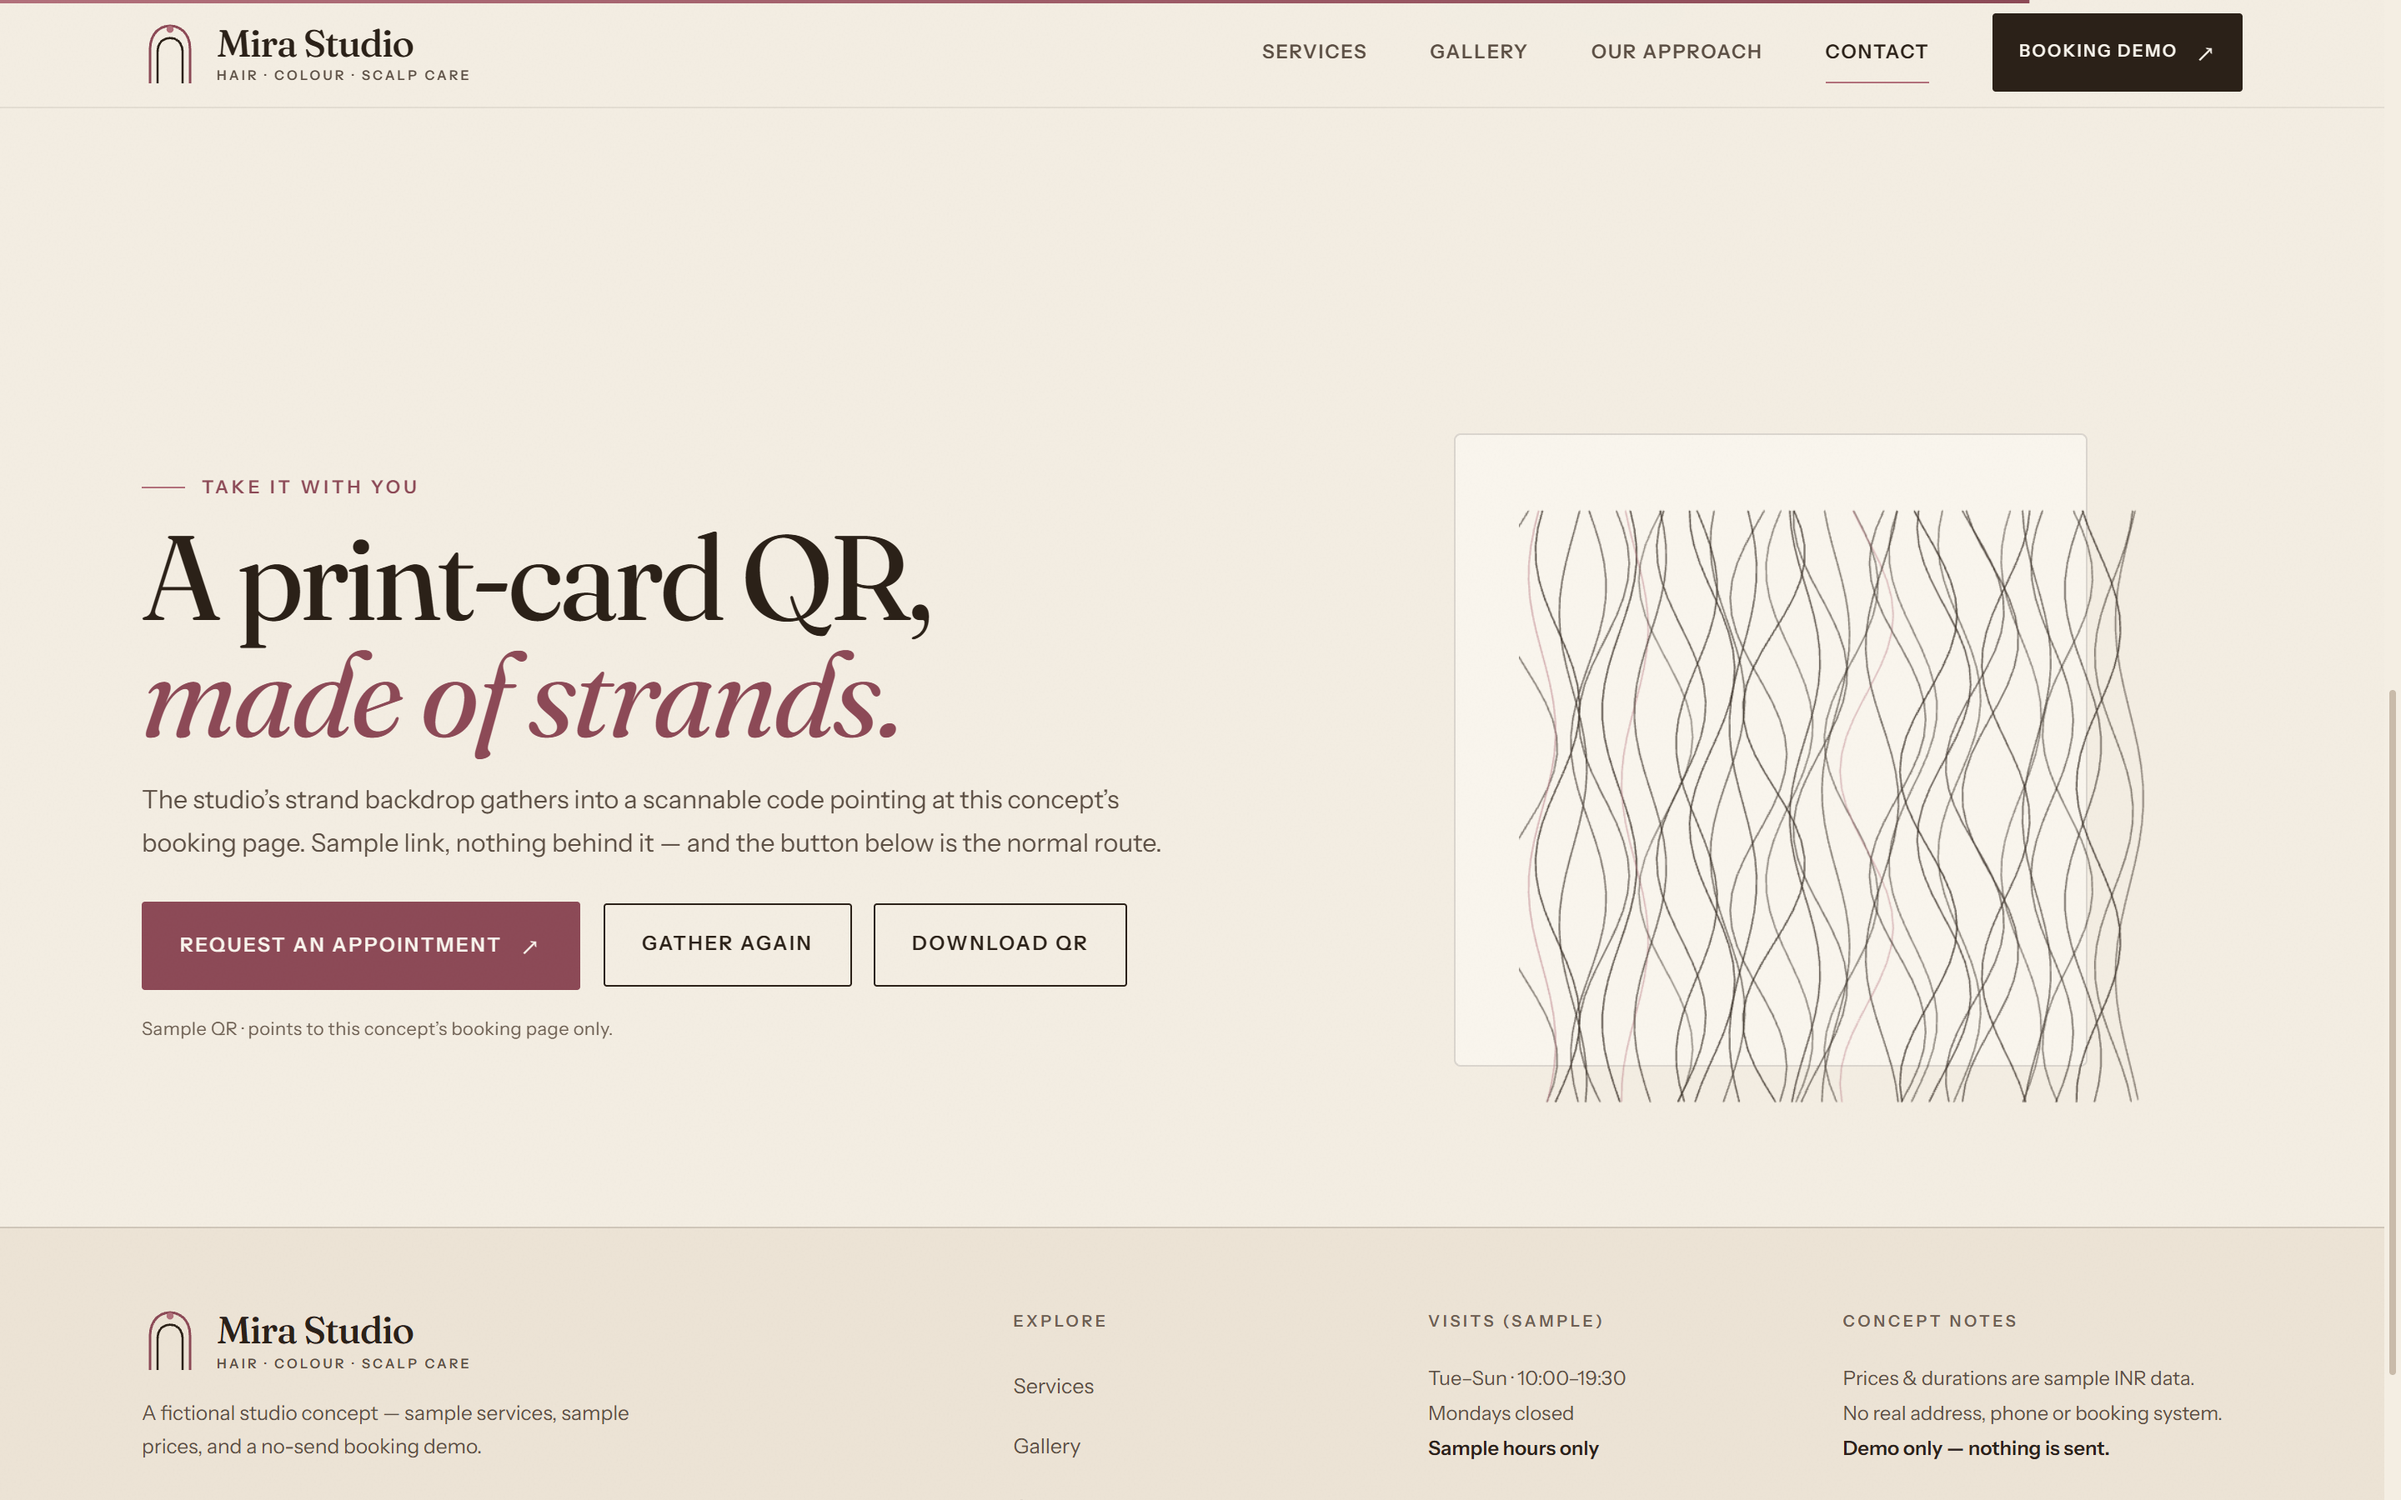
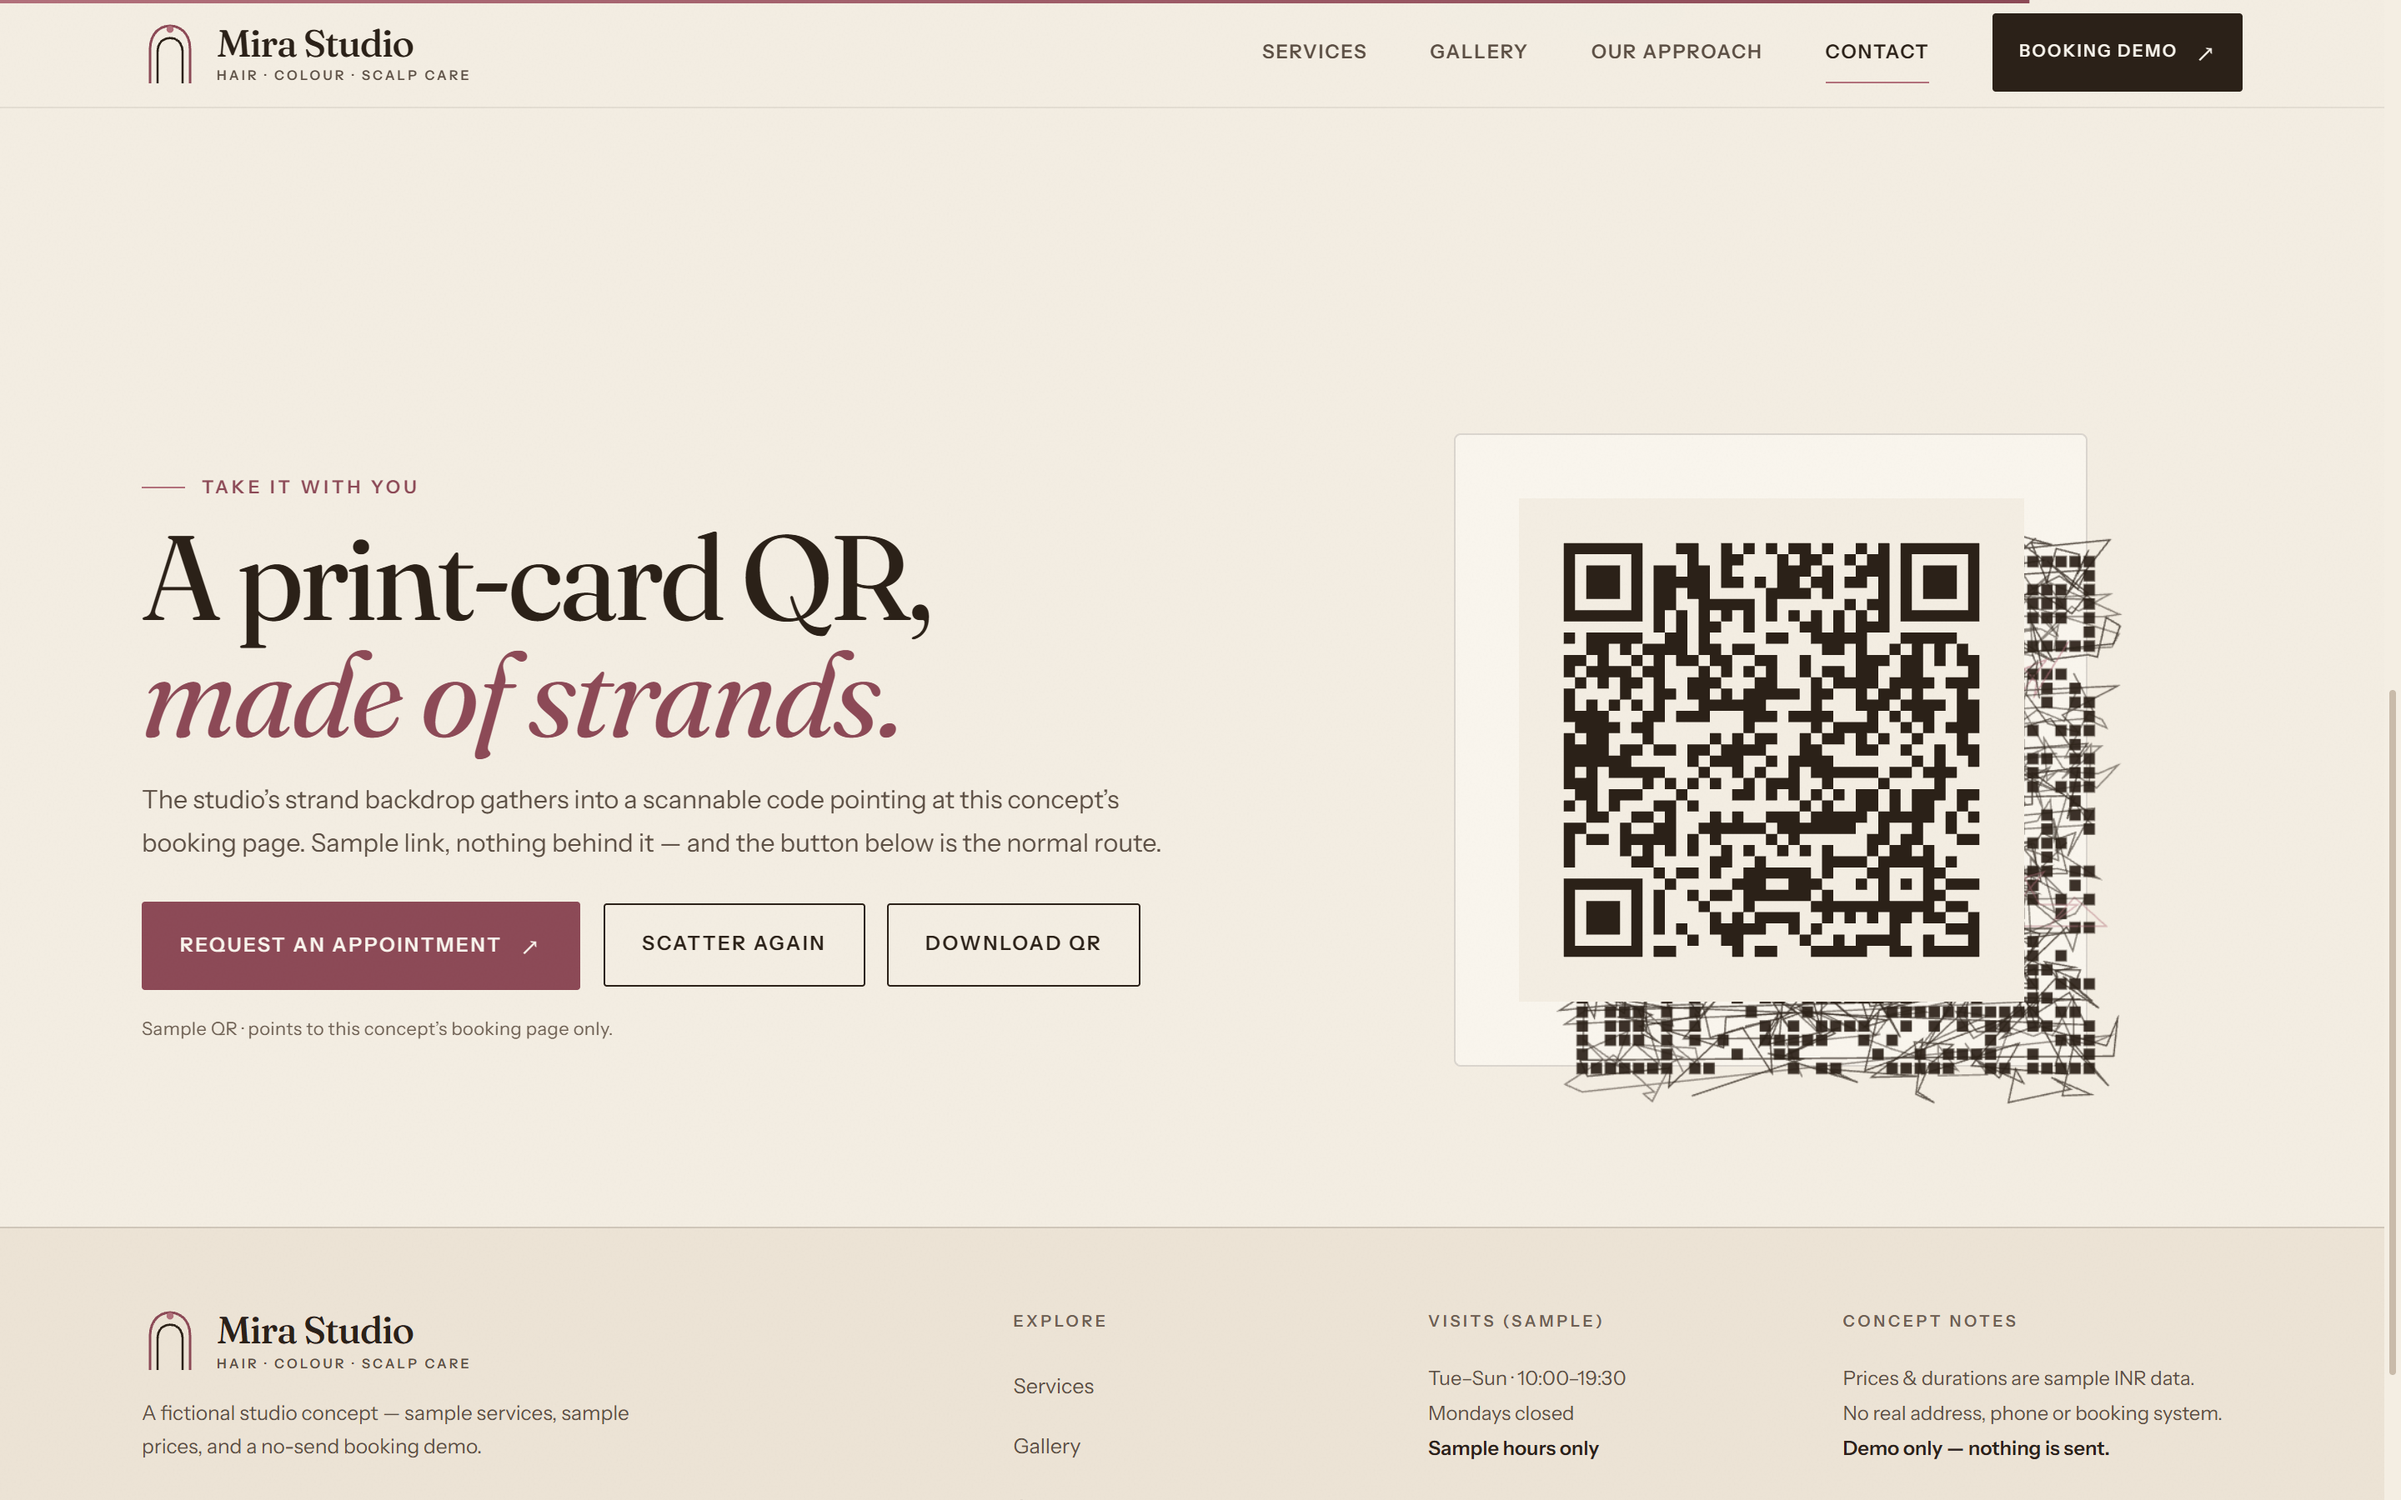
Mira: re-check viewport at QR reveal (static path belt for small screens)

Changed region(s): [[0.625, 0.3422, 0.9062, 0.7467], [0.375, 0.6222, 0.4688, 0.6533], [0.2812, 0.6222, 0.3438, 0.6533]]

diff --git a/mira-studio/index.html b/mira-studio/index.html
@@ -1465,13 +1465,19 @@ function initQr(){
   var onResize = function(){ size(); };
   window.addEventListener('resize', onResize);
   var io = null;
+  function startGather(){
+    started = true;
+    var sm = false; try{ sm = window.matchMedia('(max-width:760px)').matches || window.innerWidth <= 760; }catch(e){}
+    if(sm){ settled = true; panel.classList.add('is-on'); if(tog) tog.style.display = 'none'; return; }
+    progT = 1; setTogLabel();
+  }
   try{
     io = new IntersectionObserver(function(en){
       visible = en[0].isIntersecting;
-      if(visible && !started){ started = true; progT = 1; setTogLabel(); }
+      if(visible && !started){ startGather(); }
     },{threshold:.35});
     io.observe(panel);
-  }catch(e){ visible = true; started = true; progT = 1; setTogLabel(); }
+  }catch(e){ visible = true; startGather(); }
   qr.raf = requestAnimationFrame(frame);
   qr.cleanup = function(){
     window.removeEventListener('resize', onResize);

diff --git a/mira-studio/_build/p4.html b/mira-studio/_build/p4.html
@@ -702,13 +702,19 @@ function initQr(){
   var onResize = function(){ size(); };
   window.addEventListener('resize', onResize);
   var io = null;
+  function startGather(){
+    started = true;
+    var sm = false; try{ sm = window.matchMedia('(max-width:760px)').matches || window.innerWidth <= 760; }catch(e){}
+    if(sm){ settled = true; panel.classList.add('is-on'); if(tog) tog.style.display = 'none'; return; }
+    progT = 1; setTogLabel();
+  }
   try{
     io = new IntersectionObserver(function(en){
       visible = en[0].isIntersecting;
-      if(visible && !started){ started = true; progT = 1; setTogLabel(); }
+      if(visible && !started){ startGather(); }
     },{threshold:.35});
     io.observe(panel);
-  }catch(e){ visible = true; started = true; progT = 1; setTogLabel(); }
+  }catch(e){ visible = true; startGather(); }
   qr.raf = requestAnimationFrame(frame);
   qr.cleanup = function(){
     window.removeEventListener('resize', onResize);
